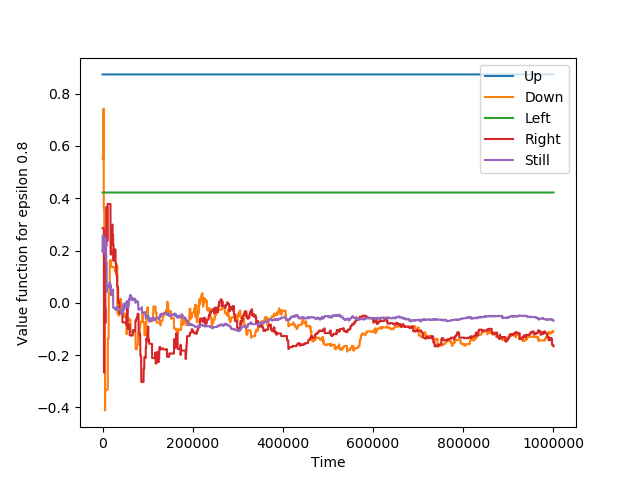
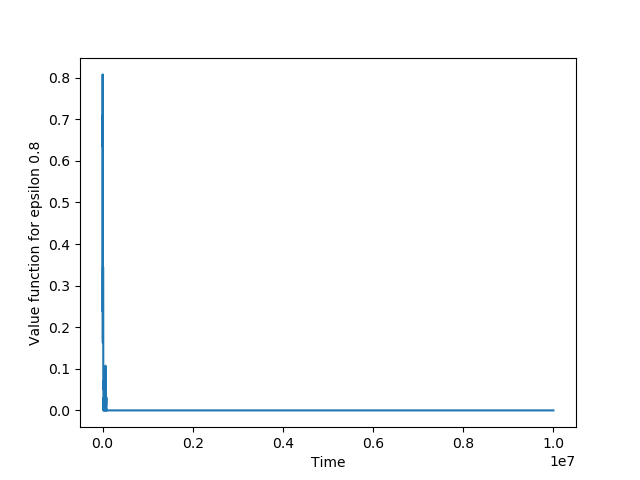
Value function updated

diff --git a/lab1/problem_3.py b/lab1/problem_3.py
@@ -22,7 +22,7 @@ STILL = lambda pos: pos
 
 PLAYER_POS = (0, 0)
 POLICE_POS = (3, 3)
-CONVERGENCE_STEPS = pow(10, 6)
+CONVERGENCE_STEPS = pow(10, 7)
 
 
 def compute_reward(state):
@@ -36,8 +36,7 @@ def compute_reward(state):
 
 def initialize_Q(states, possible_actions, sarsa = True):
     if sarsa:
-        # Initialize correctly --> Zero to impossible moves
-        Q = np.random.rand(len(states), len(possible_actions))
+        Q = np.zeros((len(states), len(possible_actions)))
     else:
         Q = np.zeros((len(states), len(possible_actions)))
     return Q
@@ -124,7 +123,7 @@ def Q_Learning(Q, discount, states, player, police):
         # Move police
         police.position = police.generate_move()
         step += 1
-        aux = np.copy(Q[states[(PLAYER_POS, POLICE_POS)]])
+        aux = max(np.copy(Q[states[(PLAYER_POS, POLICE_POS)]]))
         best_q_initial_state.append(aux)
         pbar.update(1)
     pbar.close()
@@ -133,12 +132,12 @@ def Q_Learning(Q, discount, states, player, police):
 
 def epsilon_greedy(Q, epsilon, next_player_action, states, current_state):
     # Explore randomly with probability epsilon, otherwise exploit the best policy for that state
-    if np.random.rand() < epsilon:
+    if np.random.rand() <= epsilon:
         action = np.random.choice(next_player_action)
     else:
         try:
-            action_max = max(Q[states[current_state], next_player_action])
-            action = np.where(Q[states[current_state]] == action_max)[0][0]
+            action_max = np.argmax(Q[states[current_state], next_player_action])
+            action = next_player_action[action_max]
         except:
             print(next_player_action)
             print(Q[states[current_state]])
@@ -189,7 +188,7 @@ def SARSA(Q, discount, states, player, police, epsilon):
         action = action_next
 
         # Update best value for initial state
-        aux = np.copy(Q[states[(PLAYER_POS, POLICE_POS)]])
+        aux = max(np.copy(Q[states[(PLAYER_POS, POLICE_POS)]]))
         best_sarsa_initial_state.append(aux)
         pbar.update(1)
         step += 1
@@ -218,21 +217,13 @@ def main():
     Q_init = initialize_Q(possible_states, player.actions)
 
     #---- Train with Q-Learning ----#
-    '''
     Q_init = initialize_Q(possible_states, player.actions, sarsa = False)
     q_initial_state, optimal_Q = Q_Learning(Q_init, discount, states, player, police)
-    initial_actions = ["Up", "Down", "Left", "Right", "Still"]
-    for i in tqdm(range(len(initial_actions))):
-        aux_list = []
-        for j in range(len(q_initial_state)):
-            aux_list.append(q_initial_state[j][i])
-        plt.plot(range(len(q_initial_state)), aux_list, label=initial_actions[i])
-        plt.legend()
-        plt.xlabel("Time")
-        plt.ylabel("Value function")
-    plt.savefig("Results/Problem3/Q_learning.png')
+    plt.plot(range(len(q_initial_state)), q_initial_state)
+    plt.xlabel("Time")
+    plt.ylabel("Value function Q-Learning")
+    plt.savefig("Results/Problem3/q_learning.png")
     plt.close()
-    '''
 
     #---- Train with SARSA ----#
     # Initiallize outside to use always the same initial Q
@@ -245,16 +236,10 @@ def main():
         player = Player()
         police = Police()
 
-        sarsa_initial_state, optimal_SARSA = SARSA(Q_init, discount, states, player, police, epsilon)
-        initial_actions = ["Up", "Down", "Left", "Right", "Still"]
-        for i in tqdm(range(len(initial_actions))):
-            aux_list = []
-            for j in range(len(sarsa_initial_state)):
-                aux_list.append(sarsa_initial_state[j][i])
-            plt.plot(range(len(sarsa_initial_state)), aux_list, label=initial_actions[i])
-            plt.legend()
-            plt.xlabel("Time")
-            plt.ylabel("Value function for epsilon " + str(epsilon))
+        value_func, optimal_SARSA = SARSA(Q_init, discount, states, player, police, epsilon)
+        plt.plot(range(len(value_func)), value_func)
+        plt.xlabel("Time")
+        plt.ylabel("Value function for epsilon " + str(epsilon))
         plt.savefig("Results/Problem3/" + str(epsilon) + '_epsilon.png')
         plt.close()
 
